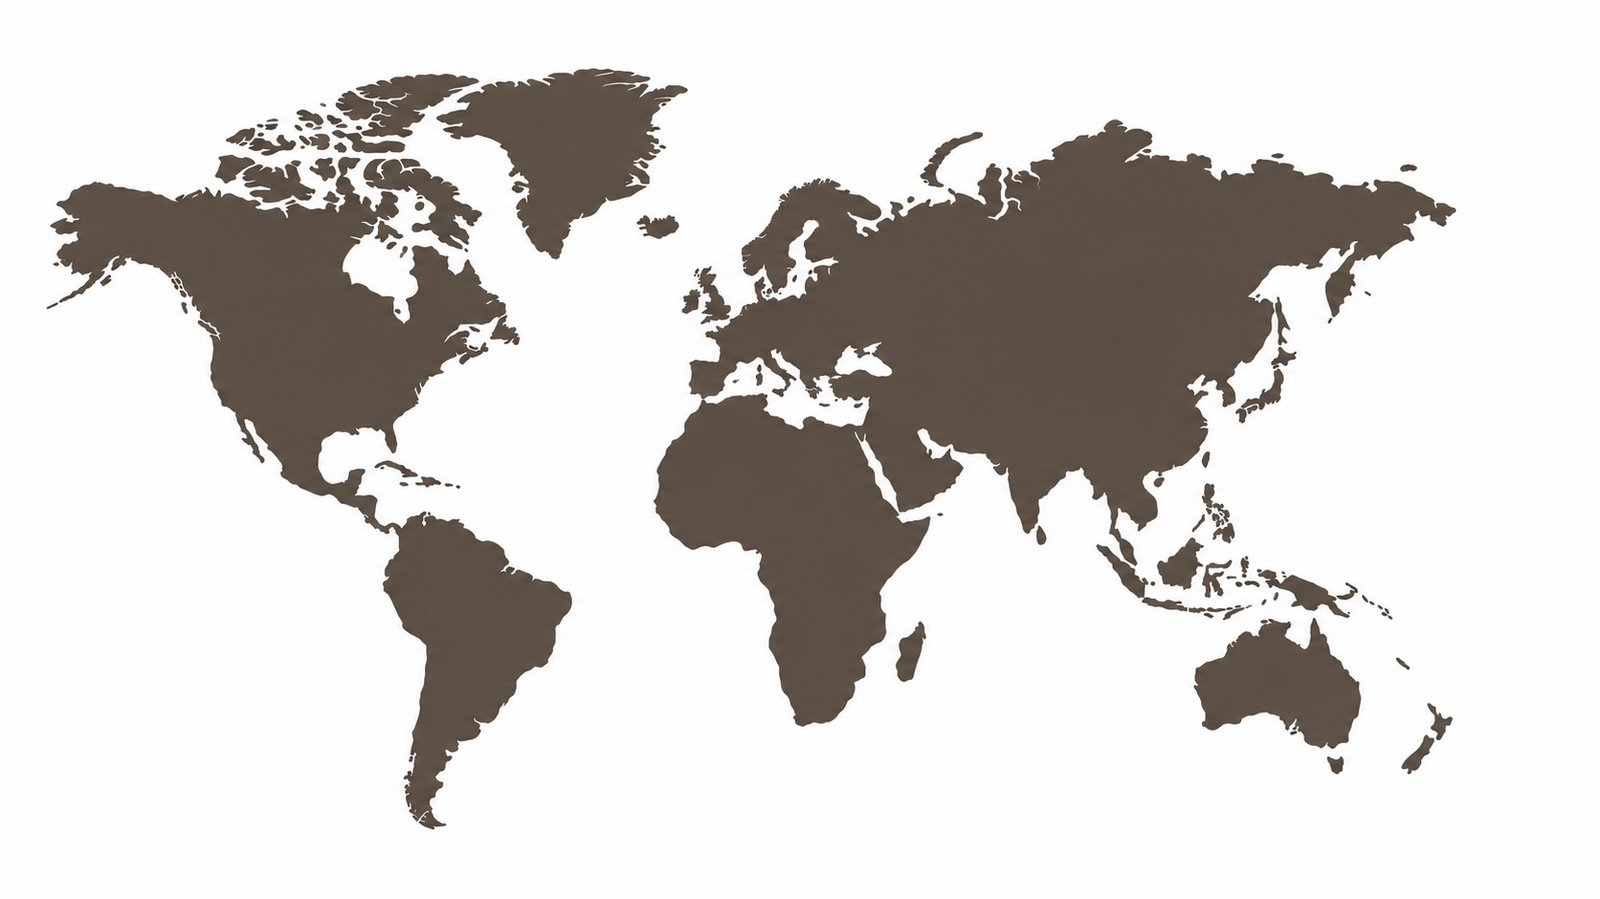
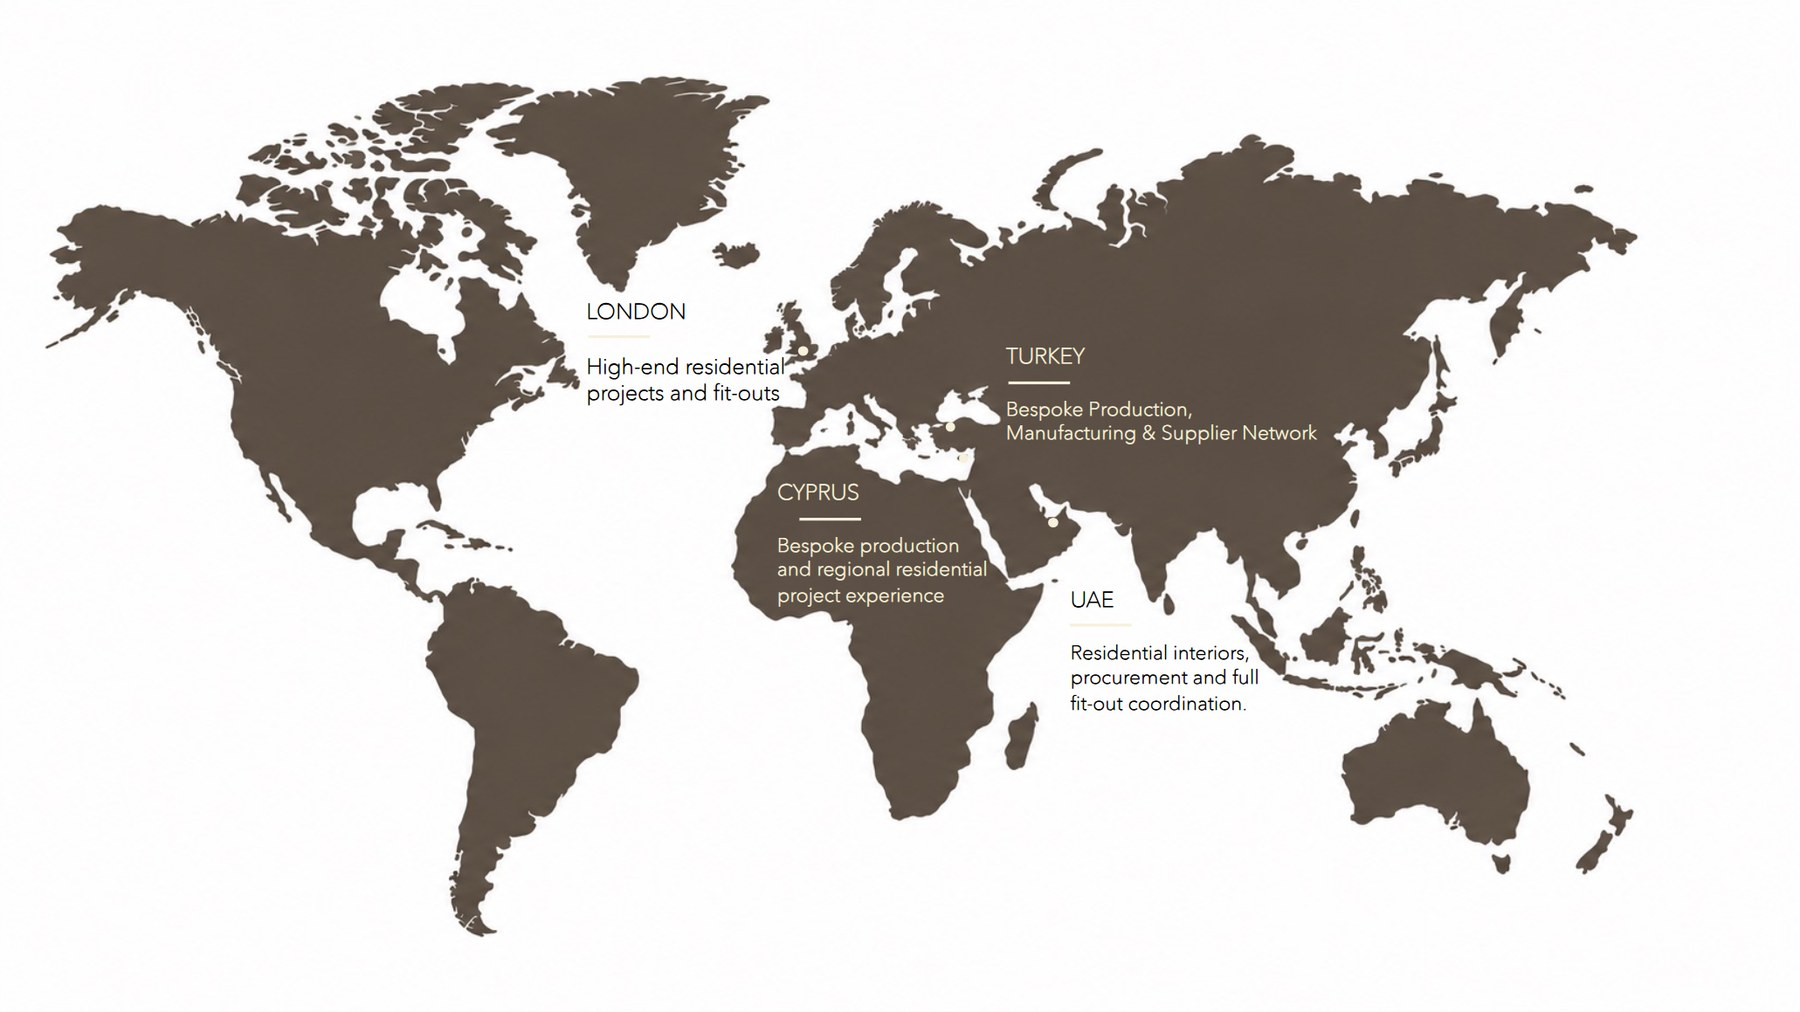
map readjustment,

diff --git a/public/gama-site/style.css b/public/gama-site/style.css
@@ -430,52 +430,11 @@ h4 { font-size: clamp(1.05rem, 1.6vw, 1.3rem); font-weight: 400; }
 
 .map-block {
   margin: 0 clamp(2rem, 6vw, 6rem) var(--space-l);
-  position: relative;
 }
 .map-block__img {
   width: 100%;
   height: auto;
   display: block;
-}
-.map-pin {
-  position: absolute;
-  display: flex;
-  flex-direction: column;
-  gap: 0.3rem;
-  max-width: 180px;
-  background: rgba(253, 251, 247, 0.88);
-  padding: 0.5rem 0.7rem;
-  border-radius: 2px;
-}
-.map-pin::before {
-  content: '';
-  width: 18px;
-  height: 1px;
-  background: var(--beige);
-  margin-bottom: 0.2rem;
-}
-.map-pin__label {
-  font-family: var(--body);
-  font-size: 0.68rem;
-  letter-spacing: 0.14em;
-  font-weight: 500;
-  color: var(--black);
-}
-.map-pin__desc {
-  font-family: var(--body);
-  font-size: 0.7rem;
-  line-height: 1.5;
-  color: var(--grey-text);
-}
-.map-pin--london { left: 22%; top: 28%; }
-.map-pin--turkey { left: 58%; top: 30%; }
-.map-pin--cyprus { left: 50%; top: 48%; }
-.map-pin--uae     { left: 58%; top: 62%; }
-
-@media (max-width: 700px) {
-  .map-pin { max-width: 130px; padding: 0.4rem 0.55rem; }
-  .map-pin__label { font-size: 0.6rem; }
-  .map-pin__desc { font-size: 0.62rem; line-height: 1.35; }
 }
 
 .about-image-row {

diff --git a/public/gama-site/about.html b/public/gama-site/about.html
@@ -50,23 +50,7 @@
 
   <!-- ───── MAP ───── -->
   <div class="map-block reveal-target">
-    <img class="map-block__img" src="images/map-world.jpg" alt="GAMA Studio regions" />
-    <div class="map-pin map-pin--london">
-      <span class="map-pin__label">LONDON</span>
-      <span class="map-pin__desc">High-end residential projects and fit-outs</span>
-    </div>
-    <div class="map-pin map-pin--turkey">
-      <span class="map-pin__label">TURKEY</span>
-      <span class="map-pin__desc">Bespoke production, manufacturing &amp; supplier network</span>
-    </div>
-    <div class="map-pin map-pin--cyprus">
-      <span class="map-pin__label">CYPRUS</span>
-      <span class="map-pin__desc">Bespoke production and regional residential project experience</span>
-    </div>
-    <div class="map-pin map-pin--uae">
-      <span class="map-pin__label">UAE</span>
-      <span class="map-pin__desc">Residential interiors, procurement and full fit-out coordination</span>
-    </div>
+    <img class="map-block__img" src="images/map-world.jpg" alt="GAMA Studio regions: London, Turkey, Cyprus and the UAE" />
   </div>
 
   <!-- ───── IMAGES 15, 16, 17 ───── -->
